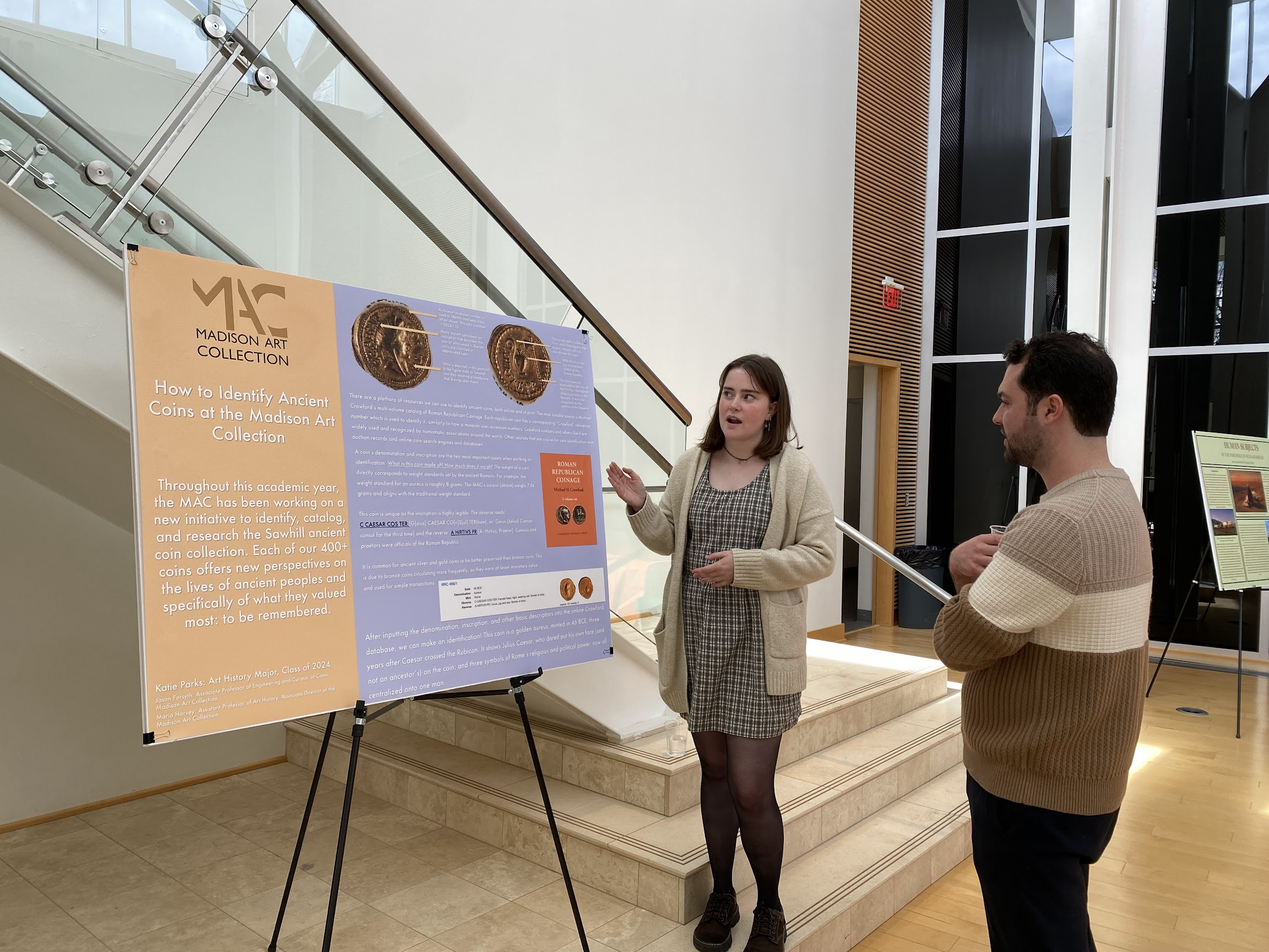
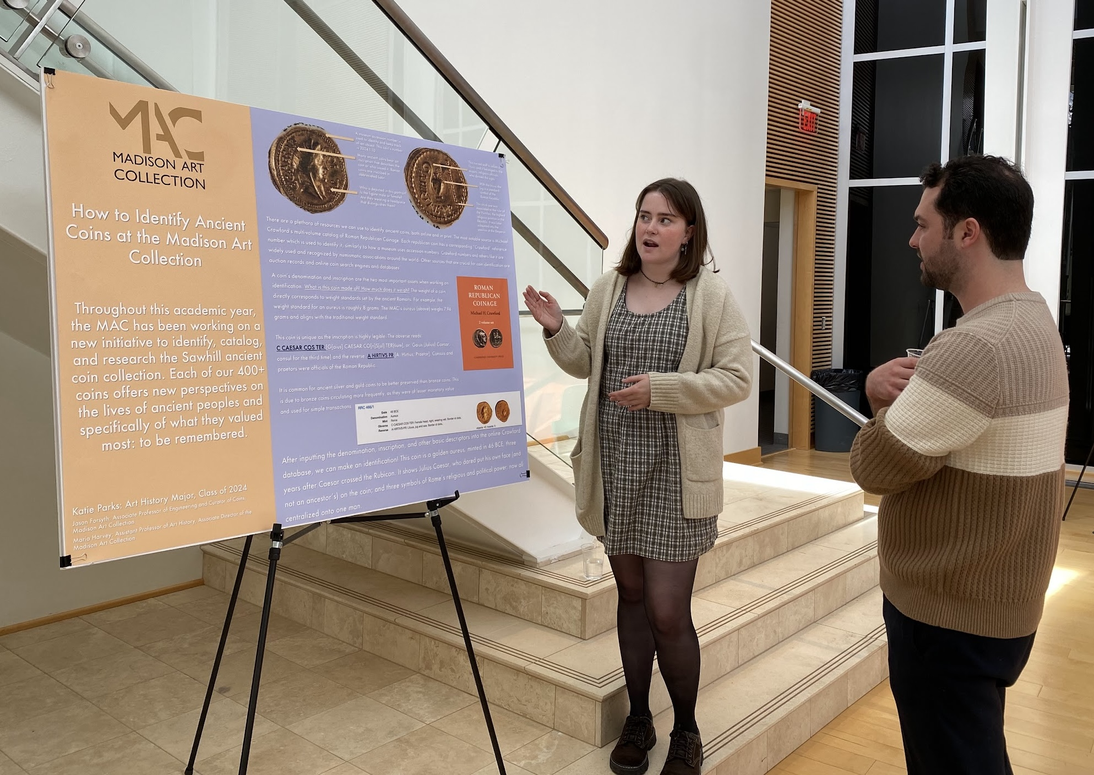
Adjust photos and add LoPresti

diff --git a/_projects/attribution.md b/_projects/attribution.md
@@ -41,5 +41,7 @@ The most recent updates for [Roman](https://jmu.emuseum.com/advancedsearch/Objec
 
   <swiper-slide>{% include figure.liquid loading="eager" path="assets/img/attribution_project/parks-poster.jpg" class="img-fluid rounded z-depth-1" %}</swiper-slide>
 
+  <swiper-slide>{% include figure.liquid loading="eager" path="assets/img/attribution_project/presti_presentation.jpg" class="img-fluid rounded z-depth-1" %}</swiper-slide>
+
 </swiper-container>
 
